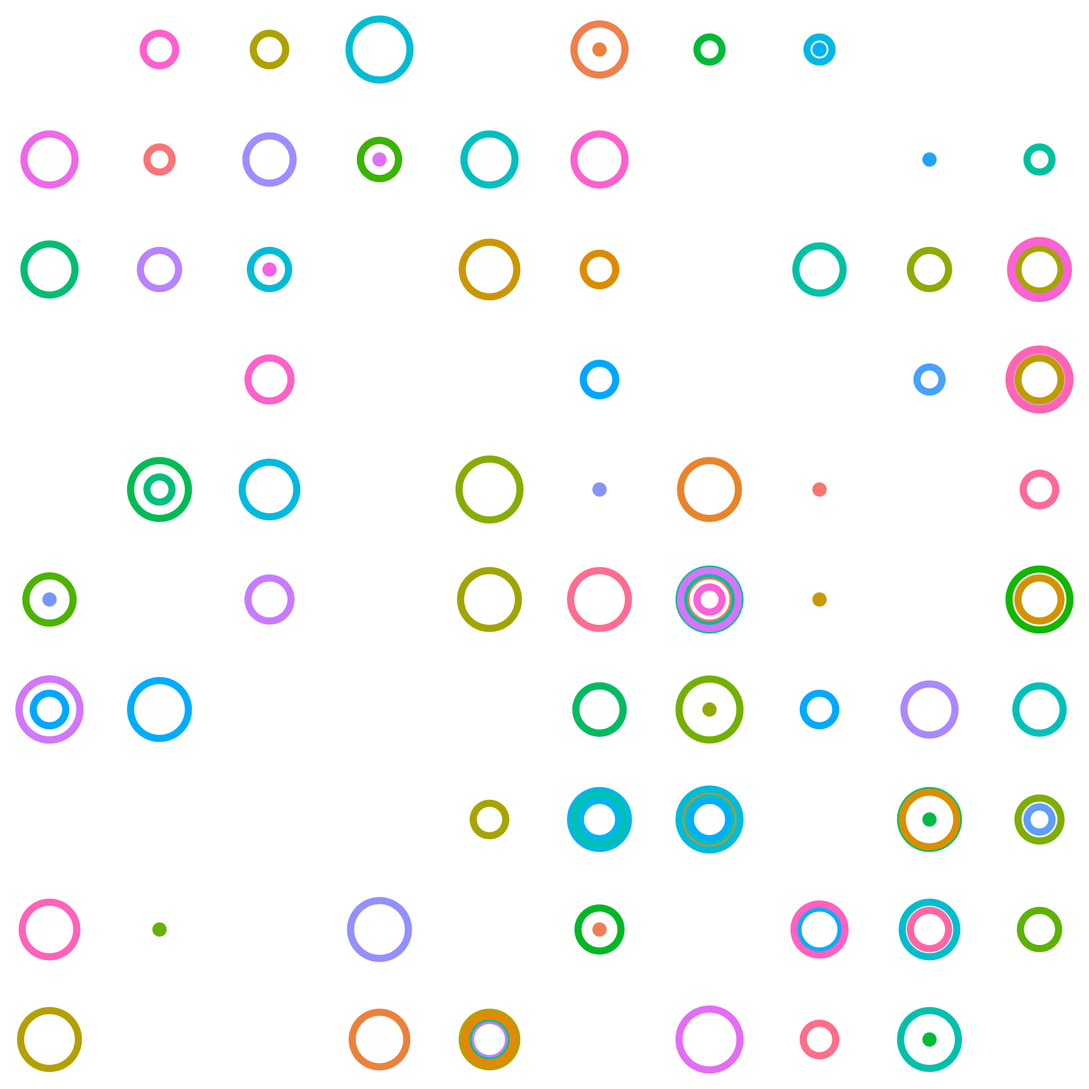
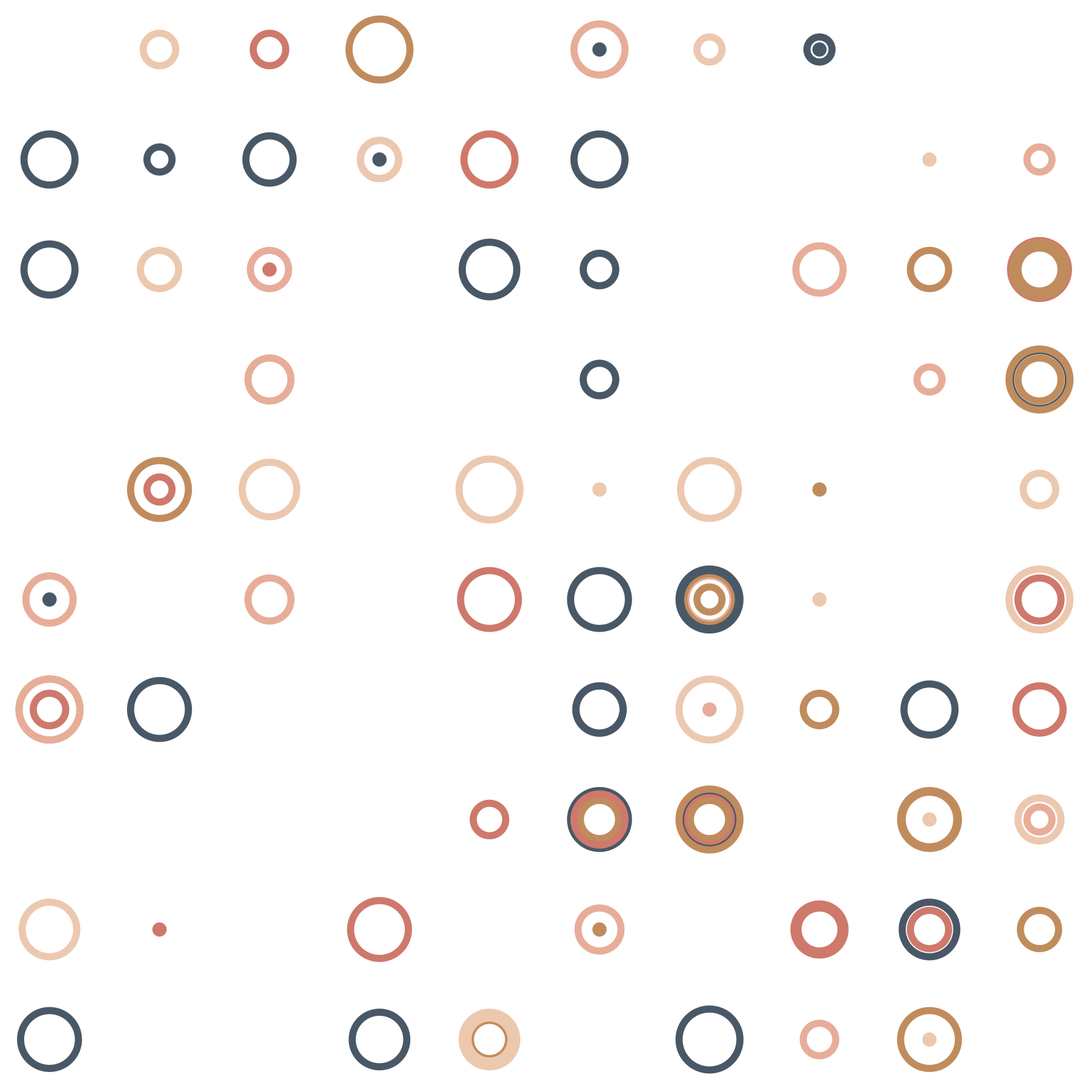
adds wrap up etc

diff --git a/docs/posts/the-blogdown-of-theseus/index.html b/docs/posts/the-blogdown-of-theseus/index.html
@@ -83,7 +83,7 @@
 <p>That part is easy. The trickier part is desiging the site in the first place and configuring everything os that knitr and eleventy play nice with one another. So let's take a look at how we handle this.</p>
 <h2>Code execution with knitr</h2>
 <p>Here's the idea. This post is written in what I'm calling &quot;knitr-flavoured markdown&quot;. The basic idea is so similar to R markdown that it'd be plagiarism for me to pretend I was doing anything novel, but I can't actually call it R markdown because it lacks a lot of R markdown features, so I've used a <code>.kmd</code> file extension for my knitr-flavoured markdown documents.</p>
-<p>Nevertheless, the core idea is essentially the same as R markdown. There's a <a href="https://yaml.org/">YAML</a> header at the top of the document that is used by eleventy when building the site, and there are code chunks that have special annotations that knitr uses when handling the code execution. But other than that it's just a markdown document. Nothing special there. Like a normal markdown document, I use triple backticks to denote a code block. Moreover, since syntax highlighting is supported by eleventy (discussed later when I dive into the details), I can write something like this in the source document:</p>
+<p>Nevertheless, the core idea is essentially the same as R markdown. There's a <a href="https://yaml.org/">yaml</a> header at the top of the document that is used by eleventy when building the site, and there are code chunks that have special annotations that knitr uses when handling the code execution. But other than that it's just a markdown document. Nothing special there. Like a normal markdown document, I use triple backticks to denote a code block. Moreover, since syntax highlighting is supported by eleventy (discussed later when I dive into the details), I can write something like this in the source document:</p>
 <pre class="language-default"><code class="language-default">```r
 add_one <- function(x) x + 1
 add_one(10)
@@ -104,14 +104,16 @@ add_one<span class="token punctuation">(</span><span class="token number">10</sp
 <p>Better yet, the blog supports plot output. As it turns out, this part of the process involves a careful effort to make sure that knitr and eleventy play nicely together (reminiscent of the same issue that occurs in R markdown with making sure knitr and pandoc play nice), and I'll talk about that later too. But for now, let's have a look at an R chunk that creates a plot:</p>
 <pre class="language-r"><code class="language-r">library<span class="token punctuation">(</span>ggplot2<span class="token punctuation">)</span>
 set.seed<span class="token punctuation">(</span><span class="token number">1</span><span class="token punctuation">)</span>
+shades <span class="token operator">&lt;-</span> c<span class="token punctuation">(</span><span class="token string">"#ecc8af"</span><span class="token punctuation">,</span> <span class="token string">"#e7ad99"</span><span class="token punctuation">,</span> <span class="token string">"#ce796b"</span><span class="token punctuation">,</span> <span class="token string">"#c18c5d"</span><span class="token punctuation">,</span> <span class="token string">"#495867"</span><span class="token punctuation">)</span>
 df <span class="token operator">&lt;-</span> data.frame<span class="token punctuation">(</span>
   x <span class="token operator">=</span> sample<span class="token punctuation">(</span><span class="token number">1</span><span class="token operator">:</span><span class="token number">10</span><span class="token punctuation">,</span> size <span class="token operator">=</span> <span class="token number">100</span><span class="token punctuation">,</span> replace <span class="token operator">=</span> <span class="token boolean">TRUE</span><span class="token punctuation">)</span><span class="token punctuation">,</span>
   y <span class="token operator">=</span> sample<span class="token punctuation">(</span><span class="token number">1</span><span class="token operator">:</span><span class="token number">10</span><span class="token punctuation">,</span> size <span class="token operator">=</span> <span class="token number">100</span><span class="token punctuation">,</span> replace <span class="token operator">=</span> <span class="token boolean">TRUE</span><span class="token punctuation">)</span><span class="token punctuation">,</span>
   size <span class="token operator">=</span> sample<span class="token punctuation">(</span><span class="token number">1</span><span class="token operator">:</span><span class="token number">10</span><span class="token punctuation">,</span> size <span class="token operator">=</span> <span class="token number">100</span><span class="token punctuation">,</span> replace <span class="token operator">=</span> <span class="token boolean">TRUE</span><span class="token punctuation">)</span><span class="token punctuation">,</span>
-  shade <span class="token operator">=</span> sample<span class="token punctuation">(</span>colours<span class="token punctuation">(</span><span class="token punctuation">)</span><span class="token punctuation">,</span> size <span class="token operator">=</span> <span class="token number">100</span><span class="token punctuation">,</span> replace <span class="token operator">=</span> <span class="token boolean">TRUE</span><span class="token punctuation">)</span>
+  shade <span class="token operator">=</span> sample<span class="token punctuation">(</span>shades<span class="token punctuation">,</span> size <span class="token operator">=</span> <span class="token number">100</span><span class="token punctuation">,</span> replace <span class="token operator">=</span> <span class="token boolean">TRUE</span><span class="token punctuation">)</span>
 <span class="token punctuation">)</span>
 ggplot<span class="token punctuation">(</span>df<span class="token punctuation">,</span> aes<span class="token punctuation">(</span>x<span class="token punctuation">,</span> y<span class="token punctuation">,</span> size <span class="token operator">=</span> size<span class="token punctuation">,</span> colour <span class="token operator">=</span> shade<span class="token punctuation">)</span><span class="token punctuation">)</span> <span class="token operator">+</span>
   geom_point<span class="token punctuation">(</span>show.legend <span class="token operator">=</span> <span class="token boolean">FALSE</span><span class="token punctuation">,</span> pch <span class="token operator">=</span> <span class="token number">1</span> <span class="token punctuation">,</span> stroke <span class="token operator">=</span> <span class="token number">2</span><span class="token punctuation">)</span> <span class="token operator">+</span> 
+  scale_colour_identity<span class="token punctuation">(</span><span class="token punctuation">)</span> <span class="token operator">+</span>
   scale_size<span class="token punctuation">(</span>range <span class="token operator">=</span> c<span class="token punctuation">(</span><span class="token number">0</span><span class="token punctuation">,</span> <span class="token number">10</span><span class="token punctuation">)</span><span class="token punctuation">)</span> <span class="token operator">+</span> 
   theme_void<span class="token punctuation">(</span><span class="token punctuation">)</span></code></pre>
 <div class="figure" style="text-align: center">
@@ -225,16 +227,19 @@ Rscript <span class="token parameter variable">-e</span> <span class="token stri
         <span class="token tag"><span class="token tag"><span class="token punctuation">&lt;</span>div</span> <span class="token attr-name">class</span><span class="token attr-value"><span class="token punctuation attr-equals">=</span><span class="token punctuation">"</span>container<span class="token punctuation">"</span></span><span class="token punctuation">></span></span>
             {{ content }}
         <span class="token tag"><span class="token tag"><span class="token punctuation">&lt;/</span>div</span><span class="token punctuation">></span></span>
+
+        <span class="token comment">&lt;!-- empty space at bottom --></span>
+        <span class="token tag"><span class="token tag"><span class="token punctuation">&lt;</span>div</span> <span class="token attr-name">class</span><span class="token attr-value"><span class="token punctuation attr-equals">=</span><span class="token punctuation">"</span>container u-pad-2<span class="token punctuation">"</span></span><span class="token punctuation">></span></span><span class="token tag"><span class="token tag"><span class="token punctuation">&lt;/</span>div</span><span class="token punctuation">></span></span>
     <span class="token tag"><span class="token tag"><span class="token punctuation">&lt;/</span>body</span><span class="token punctuation">></span></span>
 <span class="token tag"><span class="token tag"><span class="token punctuation">&lt;/</span>html</span><span class="token punctuation">></span></span></code></pre>
 <p>You can see the basic structure of the html file here, and if you've had any experience editing the <a href="https://gohugo.io/">hugo</a> layout files that are used to control how a blogdown site looks, this should seem very familiar. Fields specified within the curly braces, such as <code>{{ title }}</code> are interpreted as placeholders, and when eleventy builds the site it replaces them with the relevant fields extracted from the markdown document. Technically though it's a different format. Eleventy supports several different templaying languages, but for this blog I'm using <a href="https://shopify.github.io/liquid/">liquid</a>.</p>
-<p>Okay, so where do these values come from? Some of these fields are supplied explicitly in the YAML header. For instance, this is the YAML header used in the current document:</p>
+<p>Okay, so where do these values come from? Some of these fields are supplied explicitly in the yaml header. For instance, this is the yaml header used in the current document:</p>
 <pre class="language-yaml"><code class="language-yaml"><span class="token punctuation">---</span>
 <span class="token key atrule">title</span><span class="token punctuation">:</span> The blogdown of theseus
 <span class="token key atrule">subtitle</span><span class="token punctuation">:</span> Because you know what<span class="token punctuation">?</span> I <span class="token important">*am*</span> here to fuck spiders
 <span class="token key atrule">date</span><span class="token punctuation">:</span> <span class="token datetime number">2023-12-23</span>
 <span class="token punctuation">---</span></code></pre>
-<p>At build time, eleventy reads these values and inserts them into the appropriate locations within the template to create the final document. But not everything is specified in the YAML. For example, the <code>{{ content }}</code>) field isn't in the YAML header: that refers to the body of the markdown document (which is of course rendered as html by following the usual conventions for markdown).</p>
+<p>At build time, eleventy reads these values and inserts them into the appropriate locations within the template to create the final document. But not everything is specified in the yaml. For example, the <code>{{ content }}</code>) field isn't in the yaml header: that refers to the body of the markdown document (which is of course rendered as html by following the usual conventions for markdown).</p>
 <p>A nice thing about the templating language is that you can use these fields in the markdown itself. For instance, if my markdown file uses the title field like this:</p>
 <p><code>{{ title }}</code></p>
 <p>what actually appears in the final document is this:</p>
@@ -253,7 +258,7 @@ $$</p>
 <span class="token tag"><span class="token tag"><span class="token punctuation">&lt;</span>script</span> <span class="token attr-name">type</span><span class="token attr-value"><span class="token punctuation attr-equals">=</span><span class="token punctuation">"</span>text/x-mathjax-config<span class="token punctuation">"</span></span><span class="token punctuation">></span></span><span class="token script"><span class="token language-javascript">MathJax<span class="token punctuation">.</span>Hub<span class="token punctuation">.</span><span class="token function">Config</span><span class="token punctuation">(</span><span class="token punctuation">{</span><span class="token literal-property property">tex2jax</span><span class="token operator">:</span> <span class="token punctuation">{</span> <span class="token literal-property property">inlineMath</span><span class="token operator">:</span> <span class="token punctuation">[</span><span class="token punctuation">[</span><span class="token string">'$'</span><span class="token punctuation">,</span> <span class="token string">'$'</span><span class="token punctuation">]</span><span class="token punctuation">]</span> <span class="token punctuation">}</span><span class="token punctuation">}</span><span class="token punctuation">)</span><span class="token punctuation">;</span></span></span><span class="token tag"><span class="token tag"><span class="token punctuation">&lt;/</span>script</span><span class="token punctuation">></span></span></code></pre>
 <p>That's all that you have to do in order to get equations supported.</p>
 <h3>Supporting social media tags</h3>
-<p>Next, let's look at social media tags. For the purposes of this blog I kept it pretty simple. Every page on the site uses the same preview image, but it does have a custom title and description, which gets extracted from the <code>title</code> and <code>subtitle</code> fields in the YAML header. In the template it looks like this:</p>
+<p>Next, let's look at social media tags. For the purposes of this blog I kept it pretty simple. Every page on the site uses the same preview image, but it does have a custom title and description, which gets extracted from the <code>title</code> and <code>subtitle</code> fields in the yaml header. In the template it looks like this:</p>
 <pre class="language-html"><code class="language-html"><span class="token comment">&lt;!-- social media tags --></span>
 <span class="token tag"><span class="token tag"><span class="token punctuation">&lt;</span>meta</span> <span class="token attr-name">property</span><span class="token attr-value"><span class="token punctuation attr-equals">=</span><span class="token punctuation">"</span>og:title<span class="token punctuation">"</span></span> <span class="token attr-name">content</span><span class="token attr-value"><span class="token punctuation attr-equals">=</span><span class="token punctuation">"</span>{{ title }}<span class="token punctuation">"</span></span><span class="token punctuation">></span></span>
 <span class="token tag"><span class="token tag"><span class="token punctuation">&lt;</span>meta</span> <span class="token attr-name">property</span><span class="token attr-value"><span class="token punctuation attr-equals">=</span><span class="token punctuation">"</span>og:description<span class="token punctuation">"</span></span> <span class="token attr-name">content</span><span class="token attr-value"><span class="token punctuation attr-equals">=</span><span class="token punctuation">"</span>{{ subtitle }}<span class="token punctuation">"</span></span><span class="token punctuation">></span></span>
@@ -275,7 +280,7 @@ $$</p>
 <span class="token tag"><span class="token tag"><span class="token punctuation">&lt;</span>meta</span> <span class="token attr-name">name</span><span class="token attr-value"><span class="token punctuation attr-equals">=</span><span class="token punctuation">"</span>twitter:image<span class="token punctuation">"</span></span> <span class="token attr-name">content</span><span class="token attr-value"><span class="token punctuation attr-equals">=</span><span class="token punctuation">"</span>https://knitr-11ty.djnavarro.net/preview.jpg<span class="token punctuation">"</span></span><span class="token punctuation">></span></span>
 <span class="token tag"><span class="token tag"><span class="token punctuation">&lt;</span>meta</span> <span class="token attr-name">name</span><span class="token attr-value"><span class="token punctuation attr-equals">=</span><span class="token punctuation">"</span>twitter:creator<span class="token punctuation">"</span></span> <span class="token attr-name">content</span><span class="token attr-value"><span class="token punctuation attr-equals">=</span><span class="token punctuation">"</span>@djnavarro<span class="token punctuation">"</span></span><span class="token punctuation">></span></span>
 <span class="token tag"><span class="token tag"><span class="token punctuation">&lt;</span>meta</span> <span class="token attr-name">name</span><span class="token attr-value"><span class="token punctuation attr-equals">=</span><span class="token punctuation">"</span>twitter:card<span class="token punctuation">"</span></span> <span class="token attr-name">content</span><span class="token attr-value"><span class="token punctuation attr-equals">=</span><span class="token punctuation">"</span>summary_large_image<span class="token punctuation">"</span></span><span class="token punctuation">></span></span></code></pre>
-<p>In any case, you could of course go further than this and have a system like quarto which automatically finds an image to use as the preview if the user doesn't specify one, or a stripped down version that requires the user to specify an <code>image</code> field in the YAML, but I decided that spending any time on this would be breaking my &quot;Bob Katter rule&quot;, and I am terribly concerned about the possibility I might be neglecting the threats posed by crocodiles in North Queensland. So let's move on.</p>
+<p>In any case, you could of course go further than this and have a system like quarto which automatically finds an image to use as the preview if the user doesn't specify one, or a stripped down version that requires the user to specify an <code>image</code> field in the yaml, but I decided that spending any time on this would be breaking my &quot;Bob Katter rule&quot;, and I am terribly concerned about the possibility I might be neglecting the threats posed by crocodiles in North Queensland. So let's move on.</p>
 <h2>The .eleventy.js configuration file</h2>
 <pre class="language-js"><code class="language-js"><span class="token comment">// syntax highlighing is a separate npm package</span>
 <span class="token keyword">const</span> syntaxHighlight <span class="token operator">=</span> <span class="token function">require</span><span class="token punctuation">(</span><span class="token string">"@11ty/eleventy-plugin-syntaxhighlight"</span><span class="token punctuation">)</span><span class="token punctuation">;</span>
@@ -338,8 +343,50 @@ docs
 </code></pre>
 <p>I've told it to ignore the <code>docs</code> folder, and also my GitHub <code>README.md</code> file, since I don't actually want that to end up in the static site.</p>
 <h2>Styling the pages with skeleton</h2>
-<p>At this point we've covered almost everything that needs to be discussed about eleventy (at least for the purposes of this blog post). There's a few other things I need to mention but I'll come back to that later, because the last &quot;big&quot; topic to cover here is the css that controls the visual style of the blog.</p>
+<p>At this point we've covered almost everything that needs to be discussed about eleventy (at least for the purposes of this blog post). There's a few other things I need to mention but I'll come back to that later, because the last &quot;big&quot; topic to cover here is the css that controls the visual style of the blog. In R markdown and quarto, this is handled using <a href="https://getbootstrap.com/">bootstrap</a>. Bootstrap is a powerful, full-featured css framework, I've used it in some of my own projects, and it's a perfectly sensible thing to use. However, I'm not going to use it here because bootstrap is finicky and takes effort. Using boostrap here would violate the Bob Katter principle. Instead, I'm going to use <a href="http://getskeleton.com/">skeleton</a>, an extremely minimal css-only framework. It's simple, clean, and requires very little effort. One downside is that it's not being maintained anymore (the last commit to the repo was in 2014) but at the same time it's simple enough that I'm pretty okay with using it as-is. I probably wouldn't use it for a blog I intended to run for a long time because actually I quite like a lot of the fancy bootstrap features, but this is a small side project and in this context skeleton is perfect.</p>
+<p>In any case, here's what that entails. In total there are three css files to include: one is the <code>skeleton.css</code> file itself (only 400 lines of css), the second is is <code>normalize.css</code> (see <a href="https://csstools.github.io/normalize.css/">here</a>), and the third is the <code>tweaks.css</code> file that I wrote to add a few minor customisations that I wanted. All of these files are stored in the root directory of my project, and (as mentioned earlier) there's a pass-through rule in my <code>.eleventy.js</code> file that ensures they are all copied to the <code>docs</code> folder when the site gets built. So then all I have to do is include this in the html header of my liquid template and I'm done:</p>
+<pre class="language-html"><code class="language-html"><span class="token comment">&lt;!-- css --></span>
+<span class="token tag"><span class="token tag"><span class="token punctuation">&lt;</span>link</span> <span class="token attr-name">rel</span><span class="token attr-value"><span class="token punctuation attr-equals">=</span><span class="token punctuation">"</span>stylesheet<span class="token punctuation">"</span></span> <span class="token attr-name">href</span><span class="token attr-value"><span class="token punctuation attr-equals">=</span><span class="token punctuation">"</span>/normalize.css<span class="token punctuation">"</span></span><span class="token punctuation">></span></span>
+<span class="token tag"><span class="token tag"><span class="token punctuation">&lt;</span>link</span> <span class="token attr-name">rel</span><span class="token attr-value"><span class="token punctuation attr-equals">=</span><span class="token punctuation">"</span>stylesheet<span class="token punctuation">"</span></span> <span class="token attr-name">href</span><span class="token attr-value"><span class="token punctuation attr-equals">=</span><span class="token punctuation">"</span>/skeleton.css<span class="token punctuation">"</span></span><span class="token punctuation">></span></span>
+<span class="token tag"><span class="token tag"><span class="token punctuation">&lt;</span>link</span> <span class="token attr-name">rel</span><span class="token attr-value"><span class="token punctuation attr-equals">=</span><span class="token punctuation">"</span>stylesheet<span class="token punctuation">"</span></span> <span class="token attr-name">href</span><span class="token attr-value"><span class="token punctuation attr-equals">=</span><span class="token punctuation">"</span>/tweaks.css<span class="token punctuation">"</span></span><span class="token punctuation">></span></span></code></pre>
+<h2>A listing page for the blog</h2>
+<p>The last thing that we need for the blog (actually one of the first things I did because it was covered in the simple tutorial to get started) is set up the home page, and configure it so that eleventy creates a reverse-chronological list of all the posts on the blog. In this case it was easier to write it as an <code>index.html</code> file in the root folder for the blog (rather than an <code>index.md</code> file). However, the file I wrote is not a complete html document, and is still interpreted by eleventy with the help of the template file. Anyway, here it is. It begins with a yaml header:</p>
+<pre class="language-yaml"><code class="language-yaml"><span class="token punctuation">---</span>
+<span class="token key atrule">layout</span><span class="token punctuation">:</span> layout.liquid
+<span class="token key atrule">title</span><span class="token punctuation">:</span> An eleventy blog with knitr
+<span class="token key atrule">subtitle</span><span class="token punctuation">:</span> A side project by Danielle Navarro
+<span class="token punctuation">---</span></code></pre>
+<p>It then supplies content, in html format rather than markdown:</p>
+<pre class="language-html"><code class="language-html"><span class="token tag"><span class="token tag"><span class="token punctuation">&lt;</span>img</span> <span class="token attr-name">src</span><span class="token attr-value"><span class="token punctuation attr-equals">=</span><span class="token punctuation">"</span>preview.jpg<span class="token punctuation">"</span></span> <span class="token attr-name">width</span><span class="token attr-value"><span class="token punctuation attr-equals">=</span>200</span> <span class="token special-attr"><span class="token attr-name">style</span><span class="token attr-value"><span class="token punctuation attr-equals">=</span><span class="token punctuation">"</span><span class="token value css language-css"><span class="token property">border-radius</span><span class="token punctuation">:</span>50%</span><span class="token punctuation">"</span></span></span><span class="token punctuation">></span></span>
+
+<span class="token tag"><span class="token tag"><span class="token punctuation">&lt;</span>br</span><span class="token punctuation">></span></span><span class="token tag"><span class="token tag"><span class="token punctuation">&lt;</span>br</span><span class="token punctuation">></span></span>
+
+<span class="token tag"><span class="token tag"><span class="token punctuation">&lt;</span>ul</span><span class="token punctuation">></span></span>
+{% for post in collections.posts reversed %}
+    <span class="token tag"><span class="token tag"><span class="token punctuation">&lt;</span>li</span><span class="token punctuation">></span></span>
+        <span class="token tag"><span class="token tag"><span class="token punctuation">&lt;</span>a</span> <span class="token attr-name">href</span><span class="token attr-value"><span class="token punctuation attr-equals">=</span><span class="token punctuation">"</span>{{ post.url }}<span class="token punctuation">"</span></span><span class="token punctuation">></span></span>{{ post.data.title }}<span class="token tag"><span class="token tag"><span class="token punctuation">&lt;/</span>a</span><span class="token punctuation">></span></span>
+        <span class="token tag"><span class="token tag"><span class="token punctuation">&lt;</span>small</span><span class="token punctuation">></span></span>({{ post.date | date: "%Y-%m-%d" }})<span class="token tag"><span class="token tag"><span class="token punctuation">&lt;/</span>small</span><span class="token punctuation">></span></span>
+    <span class="token tag"><span class="token tag"><span class="token punctuation">&lt;/</span>li</span><span class="token punctuation">></span></span>
+{% endfor %}
+<span class="token tag"><span class="token tag"><span class="token punctuation">&lt;/</span>ul</span><span class="token punctuation">></span></span></code></pre>
+<p>This time you can see a little more of the liquid templating language coming into play. The html in this document defines a list with one element per blog post. It contains a link to the relevant post, using the title field for that post as the text of the link, along with the post date.</p>
+<p>The key thing to note here is that this only works because all of the posts that I've written in this blog have a &quot;posts&quot; tag in the metadata. That's what enables eleventy to index the set of all posts with <code>collections.posts</code>. However, this might seem like a puzzle, because the yaml header for this post doesn't actually include any tags. There's something missing here, and the answer to this lies in the fact that my <code>posts</code> folder also includes a file called <code>posts.json</code>. Here it is:</p>
+<pre class="language-json"><code class="language-json"><span class="token punctuation">{</span>
+    <span class="token property">"layout"</span><span class="token operator">:</span> <span class="token string">"layout.liquid"</span><span class="token punctuation">,</span>
+    <span class="token property">"tags"</span><span class="token operator">:</span> <span class="token punctuation">[</span><span class="token string">"posts"</span><span class="token punctuation">]</span>
+<span class="token punctuation">}</span></code></pre>
+<p>This json file contains additional fields (in json format not yaml) that are applied to all posts in the <code>posts</code> folder. I could have done the same thing by including this in the yaml header for all my posts:</p>
+<pre class="language-yaml"><code class="language-yaml"><span class="token key atrule">layout</span><span class="token punctuation">:</span> layout.liquid
+<span class="token key atrule">tags</span><span class="token punctuation">:</span> <span class="token punctuation">[</span><span class="token string">"posts"</span><span class="token punctuation">]</span></code></pre>
+<p>That would have the same effect.</p>
+<h2>Wrapping up</h2>
+<p>Okay look. Let's be brutally honest here. This thing I cobbled together in an afternoon is absolutely not a meaningful replacement for the professional tooling provided by R markdown, quarto, blogdown etc. It's missing a tonne of important features that those tools provide and -- clearly -- it's a Rube Goldberg device that is stitched together with bits of string I found under the carpet. The constituent parts are perfectly sensible things: knitr is the primary tool that we all use in the R ecosystem for literate programming, and eleventy is a very, very good static site generator. The reason this is a &quot;bad&quot; blog is not that there's a problem with those tools, it's because I followed the Bob Katter principle and didn't spend any time on it. I chucked a few things together in an afternoon, spent another afternoon writing a blog post, and called it a day. If you want a properly-functioning system you have to put more effort into it than I did here.</p>
+<p>That being said, it was never my intention to build a properly-functioning system here. I wanted to learn a little bit about how you could go about building tools like R markdown, blogdown, and quarto. I also wanted to learn a little bit about eleventy, because I've been curious about it for a while. With respect to those goals, I think I did okay.</p>
+<p>Mission. Fucking. Accomplished.</p>
 
         </div>
+
+        <!-- empty space at bottom -->
+        <div class="container u-pad-2"></div>
     </body>
 </html>

diff --git a/docs/posts/knitted-markdown/index.html b/docs/posts/knitted-markdown/index.html
@@ -62,5 +62,8 @@ add_one<span class="token punctuation">(</span><span class="token number">10</sp
 <p>Eleventy doesn't process the <code>.kmd</code> file, but it will process the <code>.md</code> file that gets created when I call knitr on this. Handling plot outputs is slightly more complicated, because it requires a lot more care in managing the knitr/eleventy interaction. I'll discuss that in the main post.</p>
 
         </div>
+
+        <!-- empty space at bottom -->
+        <div class="container u-pad-2"></div>
     </body>
 </html>

diff --git a/docs/index.html b/docs/index.html
@@ -77,5 +77,8 @@
 </ul>
 
         </div>
+
+        <!-- empty space at bottom -->
+        <div class="container u-pad-2"></div>
     </body>
 </html>

diff --git a/docs/posts/changelog/index.html b/docs/posts/changelog/index.html
@@ -65,5 +65,8 @@
 </ul>
 
         </div>
+
+        <!-- empty space at bottom -->
+        <div class="container u-pad-2"></div>
     </body>
 </html>

diff --git a/docs/posts/hello-changelog/index.html b/docs/posts/hello-changelog/index.html
@@ -69,5 +69,8 @@
 </ul>
 
         </div>
+
+        <!-- empty space at bottom -->
+        <div class="container u-pad-2"></div>
     </body>
 </html>

diff --git a/posts/the-blogdown-of-theseus/index.md b/posts/the-blogdown-of-theseus/index.md
@@ -61,7 +61,7 @@ That part is easy. The trickier part is desiging the site in the first place and
 
 Here's the idea. This post is written in what I'm calling "knitr-flavoured markdown". The basic idea is so similar to R markdown that it'd be plagiarism for me to pretend I was doing anything novel, but I can't actually call it R markdown because it lacks a lot of R markdown features, so I've used a `.kmd` file extension for my knitr-flavoured markdown documents.  
 
-Nevertheless, the core idea is essentially the same as R markdown. There's a [YAML](https://yaml.org/) header at the top of the document that is used by eleventy when building the site, and there are code chunks that have special annotations that knitr uses when handling the code execution. But other than that it's just a markdown document. Nothing special there. Like a normal markdown document, I use triple backticks to denote a code block. Moreover, since syntax highlighting is supported by eleventy (discussed later when I dive into the details), I can write something like this in the source document:
+Nevertheless, the core idea is essentially the same as R markdown. There's a [yaml](https://yaml.org/) header at the top of the document that is used by eleventy when building the site, and there are code chunks that have special annotations that knitr uses when handling the code execution. But other than that it's just a markdown document. Nothing special there. Like a normal markdown document, I use triple backticks to denote a code block. Moreover, since syntax highlighting is supported by eleventy (discussed later when I dive into the details), I can write something like this in the source document:
 
 
 ````default
@@ -106,14 +106,16 @@ Better yet, the blog supports plot output. As it turns out, this part of the pro
 ```r
 library(ggplot2)
 set.seed(1)
+shades <- c("#ecc8af", "#e7ad99", "#ce796b", "#c18c5d", "#495867")
 df <- data.frame(
   x = sample(1:10, size = 100, replace = TRUE),
   y = sample(1:10, size = 100, replace = TRUE),
   size = sample(1:10, size = 100, replace = TRUE),
-  shade = sample(colours(), size = 100, replace = TRUE)
+  shade = sample(shades, size = 100, replace = TRUE)
 )
 ggplot(df, aes(x, y, size = size, colour = shade)) +
   geom_point(show.legend = FALSE, pch = 1 , stroke = 2) + 
+  scale_colour_identity() +
   scale_size(range = c(0, 10)) + 
   theme_void()
 ```
@@ -277,6 +279,9 @@ In my `_includes` folder there is a single template file called `layout.liquid`,
         <div class="container">
             {{ content }}
         </div>
+
+        <!-- empty space at bottom -->
+        <div class="container u-pad-2"></div>
     </body>
 </html>
 ```
@@ -284,7 +289,7 @@ In my `_includes` folder there is a single template file called `layout.liquid`,
 
 You can see the basic structure of the html file here, and if you've had any experience editing the [hugo](https://gohugo.io/) layout files that are used to control how a blogdown site looks, this should seem very familiar. Fields specified within the curly braces, such as {% raw %}`{{ title }}`{% endraw %} are interpreted as placeholders, and when eleventy builds the site it replaces them with the relevant fields extracted from the markdown document. Technically though it's a different format. Eleventy supports several different templaying languages, but for this blog I'm using [liquid](https://shopify.github.io/liquid/).
 
-Okay, so where do these values come from? Some of these fields are supplied explicitly in the YAML header. For instance, this is the YAML header used in the current document:
+Okay, so where do these values come from? Some of these fields are supplied explicitly in the yaml header. For instance, this is the yaml header used in the current document:
 
 ```yaml
 ---
@@ -294,7 +299,7 @@ date: 2023-12-23
 ---
 ```
 
-At build time, eleventy reads these values and inserts them into the appropriate locations within the template to create the final document. But not everything is specified in the YAML. For example, the {% raw %}`{{ content }}`{% endraw %}) field isn't in the YAML header: that refers to the body of the markdown document (which is of course rendered as html by following the usual conventions for markdown). 
+At build time, eleventy reads these values and inserts them into the appropriate locations within the template to create the final document. But not everything is specified in the yaml. For example, the {% raw %}`{{ content }}`{% endraw %}) field isn't in the yaml header: that refers to the body of the markdown document (which is of course rendered as html by following the usual conventions for markdown). 
 
 A nice thing about the templating language is that you can use these fields in the markdown itself. For instance, if my markdown file uses the title field like this:
 
@@ -332,7 +337,7 @@ That's all that you have to do in order to get equations supported.
 
 ### Supporting social media tags
 
-Next, let's look at social media tags. For the purposes of this blog I kept it pretty simple. Every page on the site uses the same preview image, but it does have a custom title and description, which gets extracted from the `title` and `subtitle` fields in the YAML header. In the template it looks like this:
+Next, let's look at social media tags. For the purposes of this blog I kept it pretty simple. Every page on the site uses the same preview image, but it does have a custom title and description, which gets extracted from the `title` and `subtitle` fields in the yaml header. In the template it looks like this:
 
 {% raw %}
 ```html
@@ -364,7 +369,7 @@ But in the generated html it looks like this:
 <meta name="twitter:card" content="summary_large_image">
 ```
 
-In any case, you could of course go further than this and have a system like quarto which automatically finds an image to use as the preview if the user doesn't specify one, or a stripped down version that requires the user to specify an `image` field in the YAML, but I decided that spending any time on this would be breaking my "Bob Katter rule", and I am terribly concerned about the possibility I might be neglecting the threats posed by crocodiles in North Queensland. So let's move on. 
+In any case, you could of course go further than this and have a system like quarto which automatically finds an image to use as the preview if the user doesn't specify one, or a stripped down version that requires the user to specify an `image` field in the yaml, but I decided that spending any time on this would be breaking my "Bob Katter rule", and I am terribly concerned about the possibility I might be neglecting the threats posed by crocodiles in North Queensland. So let's move on. 
 
 ## The .eleventy.js configuration file
 
@@ -460,5 +465,72 @@ I've told it to ignore the `docs` folder, and also my GitHub `README.md` file, s
 
 ## Styling the pages with skeleton
 
-At this point we've covered almost everything that needs to be discussed about eleventy (at least for the purposes of this blog post). There's a few other things I need to mention but I'll come back to that later, because the last "big" topic to cover here is the css that controls the visual style of the blog. 
+At this point we've covered almost everything that needs to be discussed about eleventy (at least for the purposes of this blog post). There's a few other things I need to mention but I'll come back to that later, because the last "big" topic to cover here is the css that controls the visual style of the blog. In R markdown and quarto, this is handled using [bootstrap](https://getbootstrap.com/). Bootstrap is a powerful, full-featured css framework, I've used it in some of my own projects, and it's a perfectly sensible thing to use. However, I'm not going to use it here because bootstrap is finicky and takes effort. Using boostrap here would violate the Bob Katter principle. Instead, I'm going to use [skeleton](http://getskeleton.com/), an extremely minimal css-only framework. It's simple, clean, and requires very little effort. One downside is that it's not being maintained anymore (the last commit to the repo was in 2014) but at the same time it's simple enough that I'm pretty okay with using it as-is. I probably wouldn't use it for a blog I intended to run for a long time because actually I quite like a lot of the fancy bootstrap features, but this is a small side project and in this context skeleton is perfect. 
 
+In any case, here's what that entails. In total there are three css files to include: one is the `skeleton.css` file itself (only 400 lines of css), the second is is `normalize.css` (see [here](https://csstools.github.io/normalize.css/)), and the third is the `tweaks.css` file that I wrote to add a few minor customisations that I wanted. All of these files are stored in the root directory of my project, and (as mentioned earlier) there's a pass-through rule in my `.eleventy.js` file that ensures they are all copied to the `docs` folder when the site gets built. So then all I have to do is include this in the html header of my liquid template and I'm done:
+
+```html
+<!-- css -->
+<link rel="stylesheet" href="/normalize.css">
+<link rel="stylesheet" href="/skeleton.css">
+<link rel="stylesheet" href="/tweaks.css">
+```
+
+## A listing page for the blog
+
+The last thing that we need for the blog (actually one of the first things I did because it was covered in the simple tutorial to get started) is set up the home page, and configure it so that eleventy creates a reverse-chronological list of all the posts on the blog. In this case it was easier to write it as an `index.html` file in the root folder for the blog (rather than an `index.md` file). However, the file I wrote is not a complete html document, and is still interpreted by eleventy with the help of the template file. Anyway, here it is. It begins with a yaml header:
+
+```yaml
+---
+layout: layout.liquid
+title: An eleventy blog with knitr
+subtitle: A side project by Danielle Navarro
+---
+```
+
+It then supplies content, in html format rather than markdown:
+
+{% raw %}
+```html
+<img src="preview.jpg" width=200 style="border-radius:50%">
+
+<br><br>
+
+<ul>
+{% for post in collections.posts reversed %}
+    <li>
+        <a href="{{ post.url }}">{{ post.data.title }}</a>
+        <small>({{ post.date | date: "%Y-%m-%d" }})</small>
+    </li>
+{% endfor %}
+</ul>
+```
+{% endraw %}
+
+This time you can see a little more of the liquid templating language coming into play. The html in this document defines a list with one element per blog post. It contains a link to the relevant post, using the title field for that post as the text of the link, along with the post date.
+
+The key thing to note here is that this only works because all of the posts that I've written in this blog have a "posts" tag in the metadata. That's what enables eleventy to index the set of all posts with `collections.posts`. However, this might seem like a puzzle, because the yaml header for this post doesn't actually include any tags. There's something missing here, and the answer to this lies in the fact that my `posts` folder also includes a file called `posts.json`. Here it is:
+
+```json
+{
+    "layout": "layout.liquid",
+    "tags": ["posts"]
+}
+```
+
+This json file contains additional fields (in json format not yaml) that are applied to all posts in the `posts` folder. I could have done the same thing by including this in the yaml header for all my posts:
+
+```yaml
+layout: layout.liquid
+tags: ["posts"]
+```
+
+That would have the same effect.
+
+## Wrapping up
+
+Okay look. Let's be brutally honest here. This thing I cobbled together in an afternoon is absolutely not a meaningful replacement for the professional tooling provided by R markdown, quarto, blogdown etc. It's missing a tonne of important features that those tools provide and -- clearly -- it's a Rube Goldberg device that is stitched together with bits of string I found under the carpet. The constituent parts are perfectly sensible things: knitr is the primary tool that we all use in the R ecosystem for literate programming, and eleventy is a very, very good static site generator. The reason this is a "bad" blog is not that there's a problem with those tools, it's because I followed the Bob Katter principle and didn't spend any time on it. I chucked a few things together in an afternoon, spent another afternoon writing a blog post, and called it a day. If you want a properly-functioning system you have to put more effort into it than I did here.
+
+That being said, it was never my intention to build a properly-functioning system here. I wanted to learn a little bit about how you could go about building tools like R markdown, blogdown, and quarto. I also wanted to learn a little bit about eleventy, because I've been curious about it for a while. With respect to those goals, I think I did okay. 
+
+Mission. Fucking. Accomplished.
